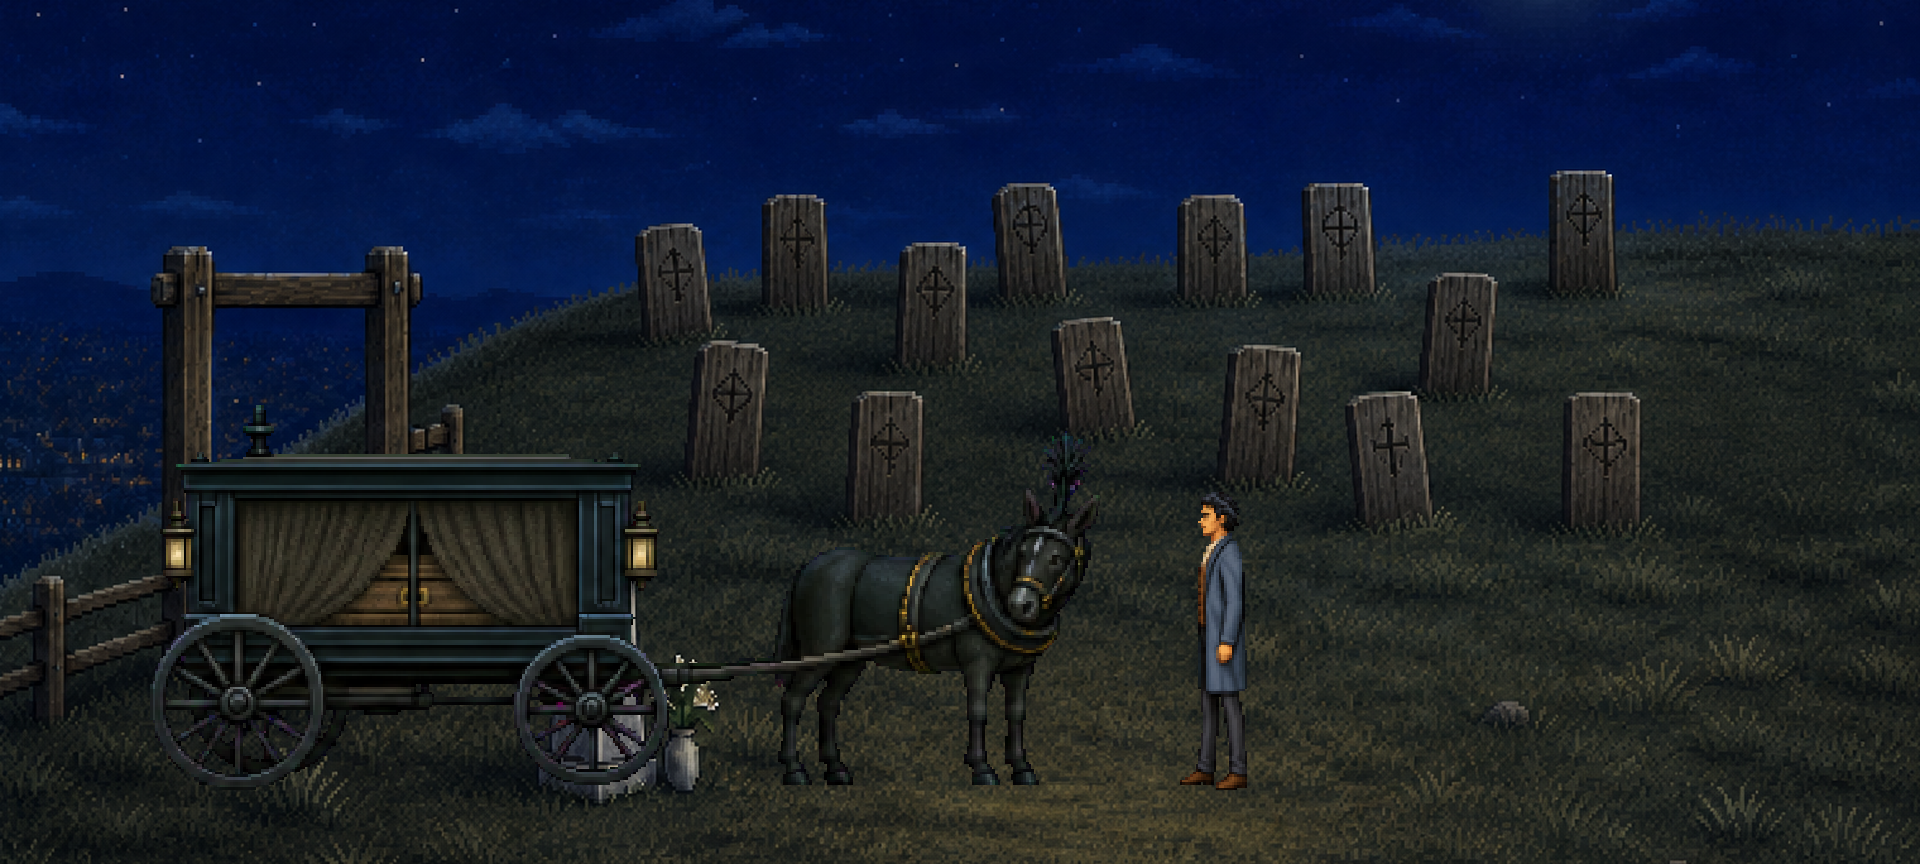
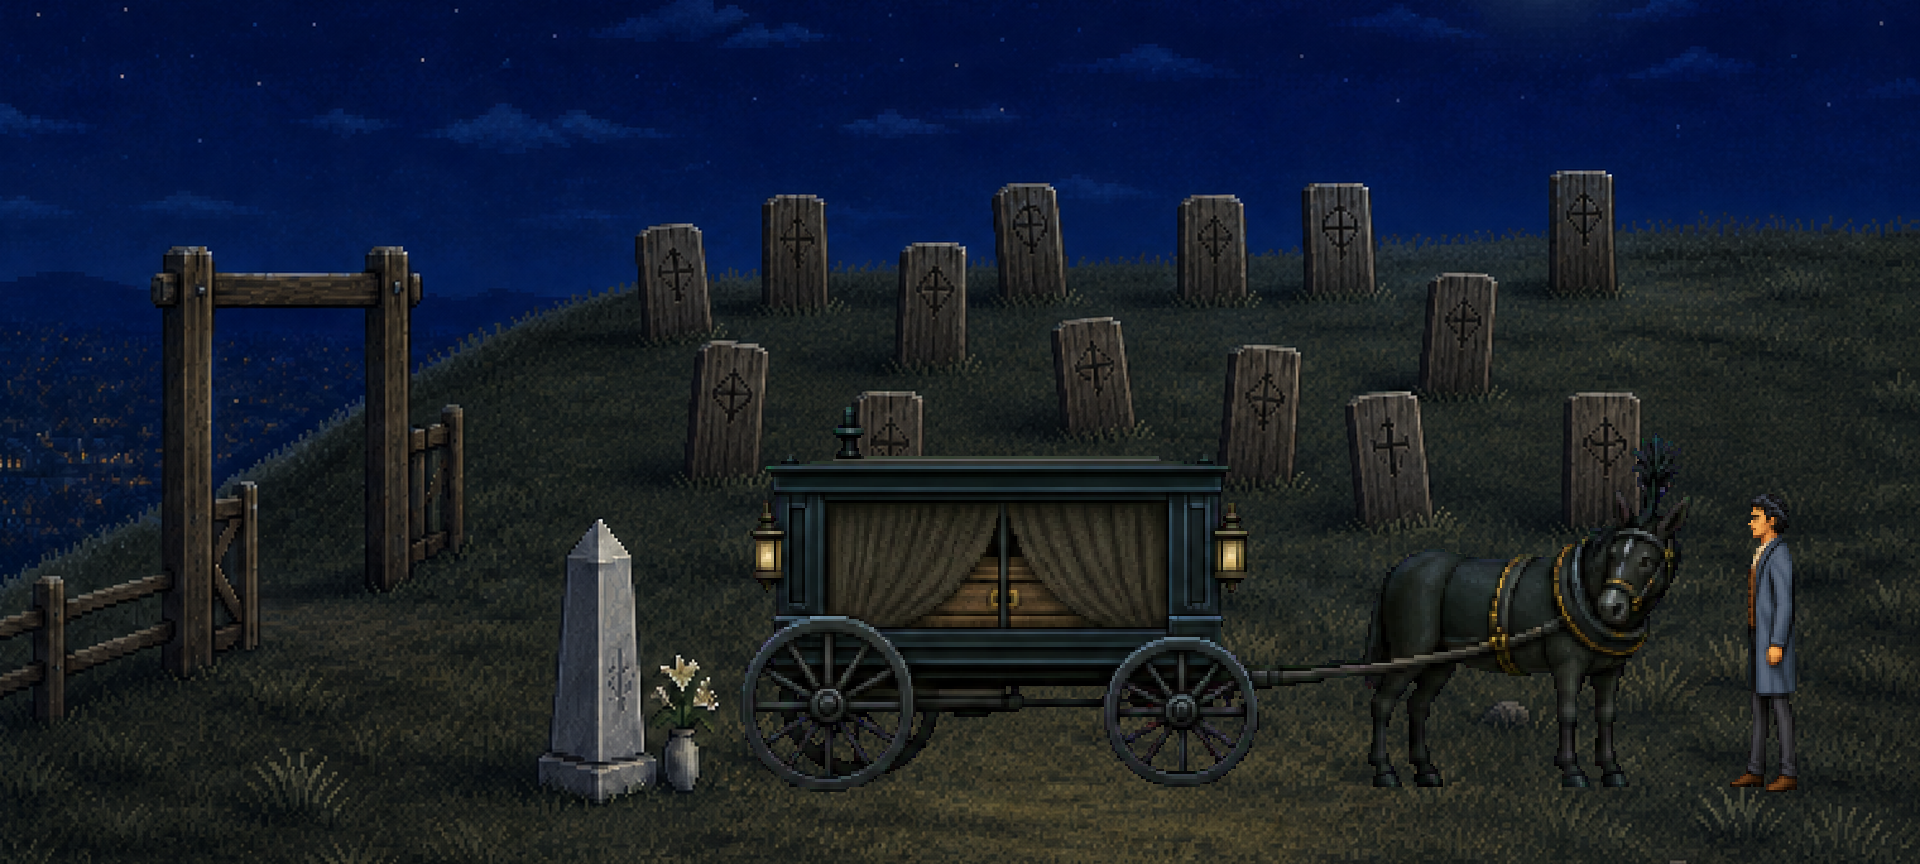
Scene A's art: magenta spill taken out of the wheels and plume; the check render clear of Pike's obelisk
The first check render stood the hearse on the obelisk and the lilies
(Tyler: "the carriage is currently placed on top of a tombstone"); it now
stands on the open grass right of the monument, and the handback note says
the gate itself cannot hold a 906 px hitch without covering them. The cut
tools now despill the key's signature (red and blue above green together)
and refuse to write a sheet that still carries it: 4349 pixels in the
hitch, 219 in the mourners.

Lesson: tools/art/act3-hearse-cut.py and act3-mourners-cut.py assert no key spill survives before they write; check-residual-key's R==B signature does not see spill blended into a dark spoke.

Claude-Session: https://claude.ai/code/session_01FXbCupzwLJAEr7fqqWYP8A

Changed region(s): [[0.0625, 0.4688, 0.875, 0.9375], [0.9062, 0.5625, 0.9375, 0.9375]]

diff --git a/tools/art/act3-hearse-cut.py b/tools/art/act3-hearse-cut.py
@@ -39,6 +39,23 @@ def opaque_rgb(a):
     return np.sqrt((a[..., 0] - 255) ** 2 + a[..., 1] ** 2 + (a[..., 2] - 255) ** 2) >= 120
 
 
+def despill(a, tolerance=6):
+    """Magenta left in thin pockets (between a wheel's spokes, inside a plume) that the cutter's own despill missed:
+    red and blue standing above green TOGETHER is the key's signature (a blue-black lacquer has blue over green, but
+    not red). Both are pulled down by that excess. Returns the frame and how many pixels were touched."""
+    a = a.copy(); c = a[..., :3].astype(int)
+    ex = np.minimum(c[..., 0], c[..., 2]) - c[..., 1]
+    hit = (a[..., 3] > 0) & (ex > tolerance)
+    c[..., 0] -= np.where(hit, ex, 0); c[..., 2] -= np.where(hit, ex, 0)
+    a[..., :3] = np.clip(c, 0, 255).astype(np.uint8)
+    return a, int(hit.sum())
+
+
+def spill_left(a, tolerance=6):
+    c = a[..., :3].astype(int)
+    return int(((a[..., 3] > 0) & (np.minimum(c[..., 0], c[..., 2]) - c[..., 1] > tolerance)).sum())
+
+
 sheet = np.asarray(Image.open(SRC).convert('RGB')).astype(int)
 # The rows, found by the magenta between them (a fixed third of the sheet put row 3's roof ornament in row 2).
 busy = opaque_rgb(sheet[:, X0:X1]).any(1)
@@ -137,6 +154,10 @@ breath[mid - 1, JOIN:] = frames[0][mid, JOIN:]
 frames = [frames[0], breath, frames[1], frames[2]]
 b = MAN / N
 frames = [snap(f, b) for f in frames]
+fixed = 0
+for i, f in enumerate(frames):
+    frames[i], n = despill(f); fixed += n
+assert all(spill_left(f) == 0 for f in frames), 'magenta survives the despill'
 fh = max(f.shape[0] for f in frames); fw = max(f.shape[1] for f in frames)
 out = np.zeros((fh + 4, len(frames) * (fw + 2) + 2, 4), np.uint8)
 rects = []
@@ -145,7 +166,7 @@ for i, f in enumerate(frames):
     out[2 + fh - f.shape[0]:2 + fh, x:x + f.shape[1]] = f
     rects.append([x, 2, fw, fh])
 withers_out = round(withers_src * HEIGHT / hitch_src)
-report = {'height': HEIGHT, 'withers': withers_out, 'withersOfMan': round(withers_out / MAN, 3),
+report = {'despilled': fixed, 'height': HEIGHT, 'withers': withers_out, 'withersOfMan': round(withers_out / MAN, 3),
           'hitchOfMan': round(fh / MAN, 3), 'seam': SEAM, 'join': JOIN, 'poseFits': fits, 'padTop': PAD, 'block': round(b, 2), 'frames': rects}
 print(json.dumps(report))
 if '--write' in sys.argv:

diff --git a/tools/art/act3-mourners-cut.py b/tools/art/act3-mourners-cut.py
@@ -27,6 +27,23 @@ sys.argv = sys_argv
 cut_row, place, grow_and_paste, snap, man, read, rows = (ns[k] for k in
     ('cut_row', 'place', 'grow_and_paste', 'snap', 'man', 'read', 'rows'))
 
+def despill(a, tolerance=6):
+    """Magenta left in thin pockets (between a wheel's spokes, inside a plume) that the cutter's own despill missed:
+    red and blue standing above green TOGETHER is the key's signature (a blue-black lacquer has blue over green, but
+    not red). Both are pulled down by that excess. Returns the frame and how many pixels were touched."""
+    a = a.copy(); c = a[..., :3].astype(int)
+    ex = np.minimum(c[..., 0], c[..., 2]) - c[..., 1]
+    hit = (a[..., 3] > 0) & (ex > tolerance)
+    c[..., 0] -= np.where(hit, ex, 0); c[..., 2] -= np.where(hit, ex, 0)
+    a[..., :3] = np.clip(c, 0, 255).astype(np.uint8)
+    return a, int(hit.sum())
+
+
+def spill_left(a, tolerance=6):
+    c = a[..., :3].astype(int)
+    return int(((a[..., 3] > 0) & (np.minimum(c[..., 0], c[..., 2]) - c[..., 1] > tolerance)).sum())
+
+
 REC = 'content/ambient/funeral-mourners.json'
 OUT = os.path.join(ROOT, 'art/actors/room-14-mourners-bowed.png')
 rec = read(REC); s = rec['sprite']
@@ -50,6 +67,10 @@ for pose in figs[1:3]:
     ox, oy = place(rest_cell, s['frames'][0], figs[0], pose, 'legs')
     cell = grow_and_paste((w, h), pose, ox, oy)
     new.append(snap(cell, b) if b > 1.05 else cell)
+fixed = 0
+for i, n in enumerate(new):
+    new[i], k = despill(n); fixed += k
+assert all(spill_left(n) == 0 for n in new), 'magenta survives the despill'
 H2 = max(n.shape[0] for n in new); W2 = max(n.shape[1] for n in new)
 out = np.zeros((H2 + 4, len(new) * (W2 + 2) + 2, 4), np.uint8)
 rects = []
@@ -57,7 +78,7 @@ for i, n in enumerate(new):
     fx = 2 + i * (W2 + 2)
     out[2 + H2 - n.shape[0]:2 + H2, fx:fx + n.shape[1]] = n
     rects.append([fx, 2, W2, H2])
-print(json.dumps({'restRows': target, 'cut': [cut_h, got], 'block': round(b, 2), 'frames': rects,
+print(json.dumps({'despilled': fixed, 'restRows': target, 'cut': [cut_h, got], 'block': round(b, 2), 'frames': rects,
                   'shippingFrame': [w, h]}))
 if '--write' in sys.argv:
     Image.fromarray(out).save(OUT)

diff --git a/reference/act3-hearse/handback.md b/reference/act3-hearse/handback.md
@@ -17,8 +17,10 @@ in a row with 2 px between (`[2 + i*952, 2, 950, 387]`), bottom-centred like eve
 
 - The coffin is INSIDE: the end of a pale pine coffin shows where the drawn curtains don't meet. No trestles, no lid, no ground.
 - The hearse is pixel-identical in all four frames (cut from frame 0); only she moves.
-- **Size:** drawn at Room 14's man at the gate, 298 px. Her withers are 244 px, 0.82 of him (`content/scale-anchors.json`'s mules, 0.77-0.91). Her ear tips come to about his crown, below the anchors' 1.10-1.35 for ears: the generator drew her ears short against her withers, and the brief sets the withers. The hearse stands 1.3 men tall.
+- **Size:** drawn at Room 14's man at the gate, 298 px. Her withers are 244 px, 0.82 of him (`content/scale-anchors.json`'s mules, 0.77-0.91). Her ear tips are 301 px over her hooves, 1.01 of him, below the anchors' 1.10-1.35 for ears: the generator drew her ears short against her withers, and the brief sets the withers. A scale anchor for this figure would flag the ears. The hearse stands 1.3 men tall.
 - **Light:** Room 14's night, no blue rim (`renders/room-14-hearse-grievance-at-the-gate-with-thad.png`).
+- **Where it can stand:** Pike's obelisk and the lilies sit at the front of the plate at x 540-720, and the hitch is 906 px long, so it cannot stand in the gate itself without covering them (Tyler, 2026-11-09, flagged the first check render doing exactly that). The check render stands it on the open grass right of the monument, hooves at y 792, the gate behind it. Staging is the main session's.
+- **Key spill:** the cutter's despill left magenta in the thin pockets between the wheel spokes and in the plume. Both cut tools now pull out any pixel whose red and blue stand above green together, and refuse to write a sheet with any left.
 - **The brief also asked** for the plaited black ribbon in her mane. It did not come out visibly; the plume and harness did.
 - Cut by `tools/art/act3-hearse-cut.py` (re-runnable from the staging sheet).
 
